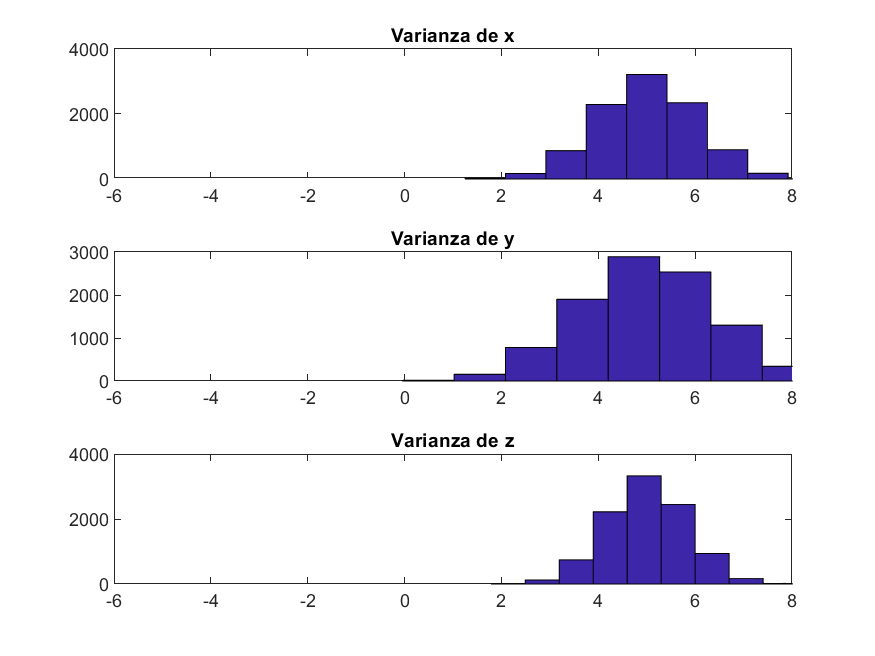
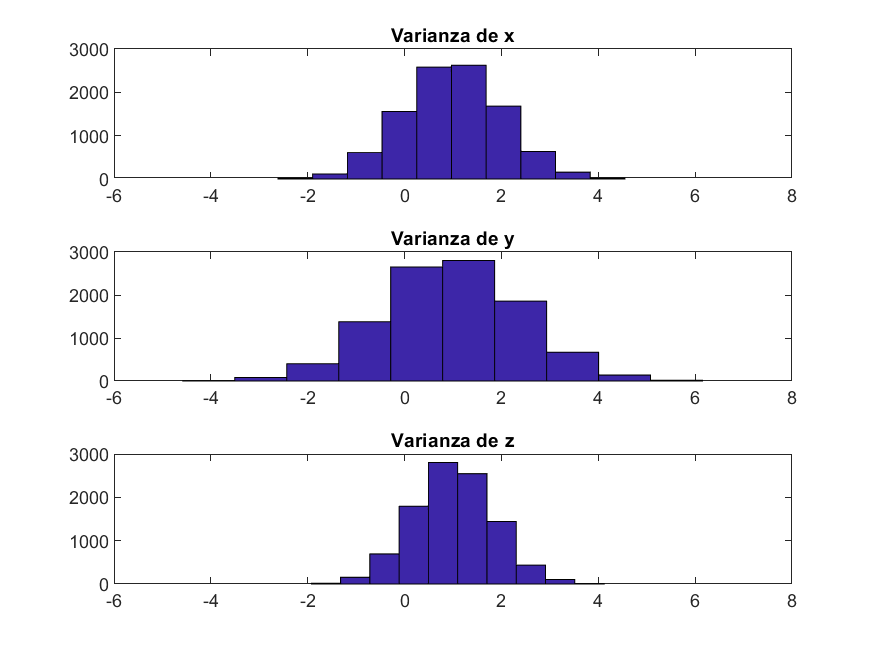
nuevas

diff --git a/simu/lab2.m b/simu/lab2.m
@@ -2,12 +2,12 @@ clc
 clear all
 
 
-u=5; %media
+u=1; %media
 v_1=sqrt(1); %varianza 1
 v_2=sqrt(2); %varianza 2
 m_exp=0;
 v_exp=0;
-g=0.5;
+g=2;
 
 
 x_1=normrnd(u,v_1,[10000,1]);
